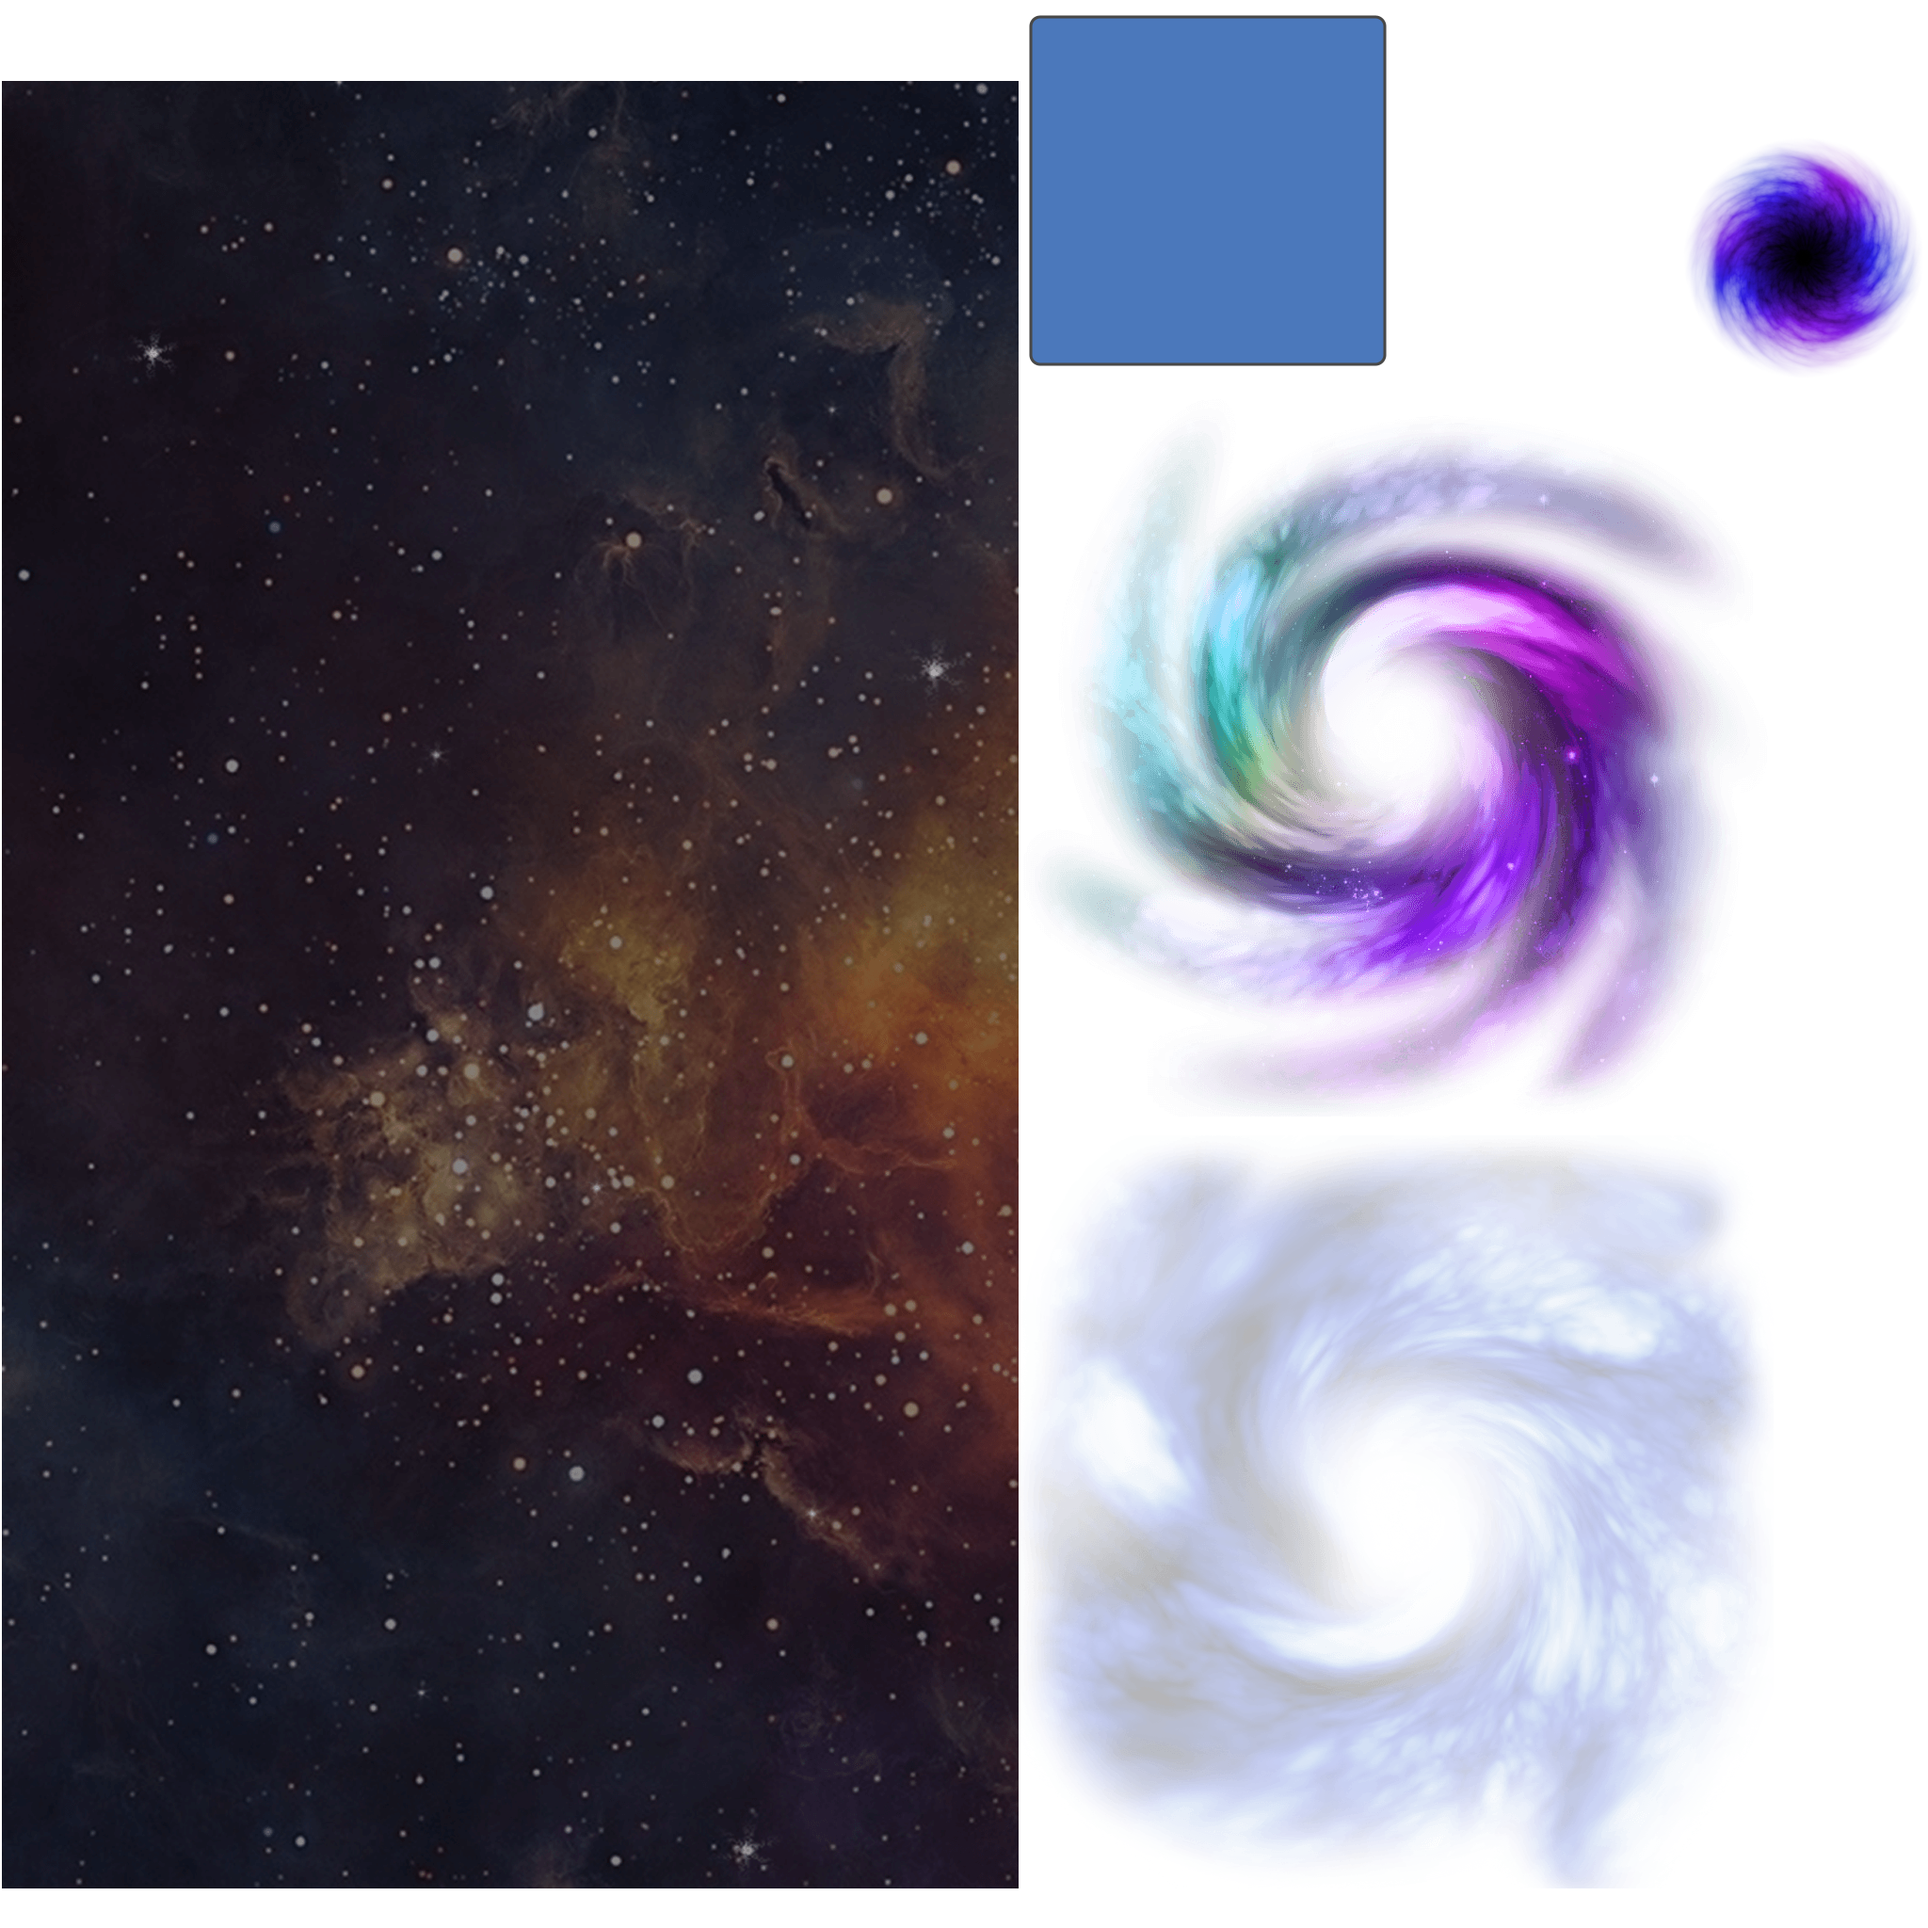
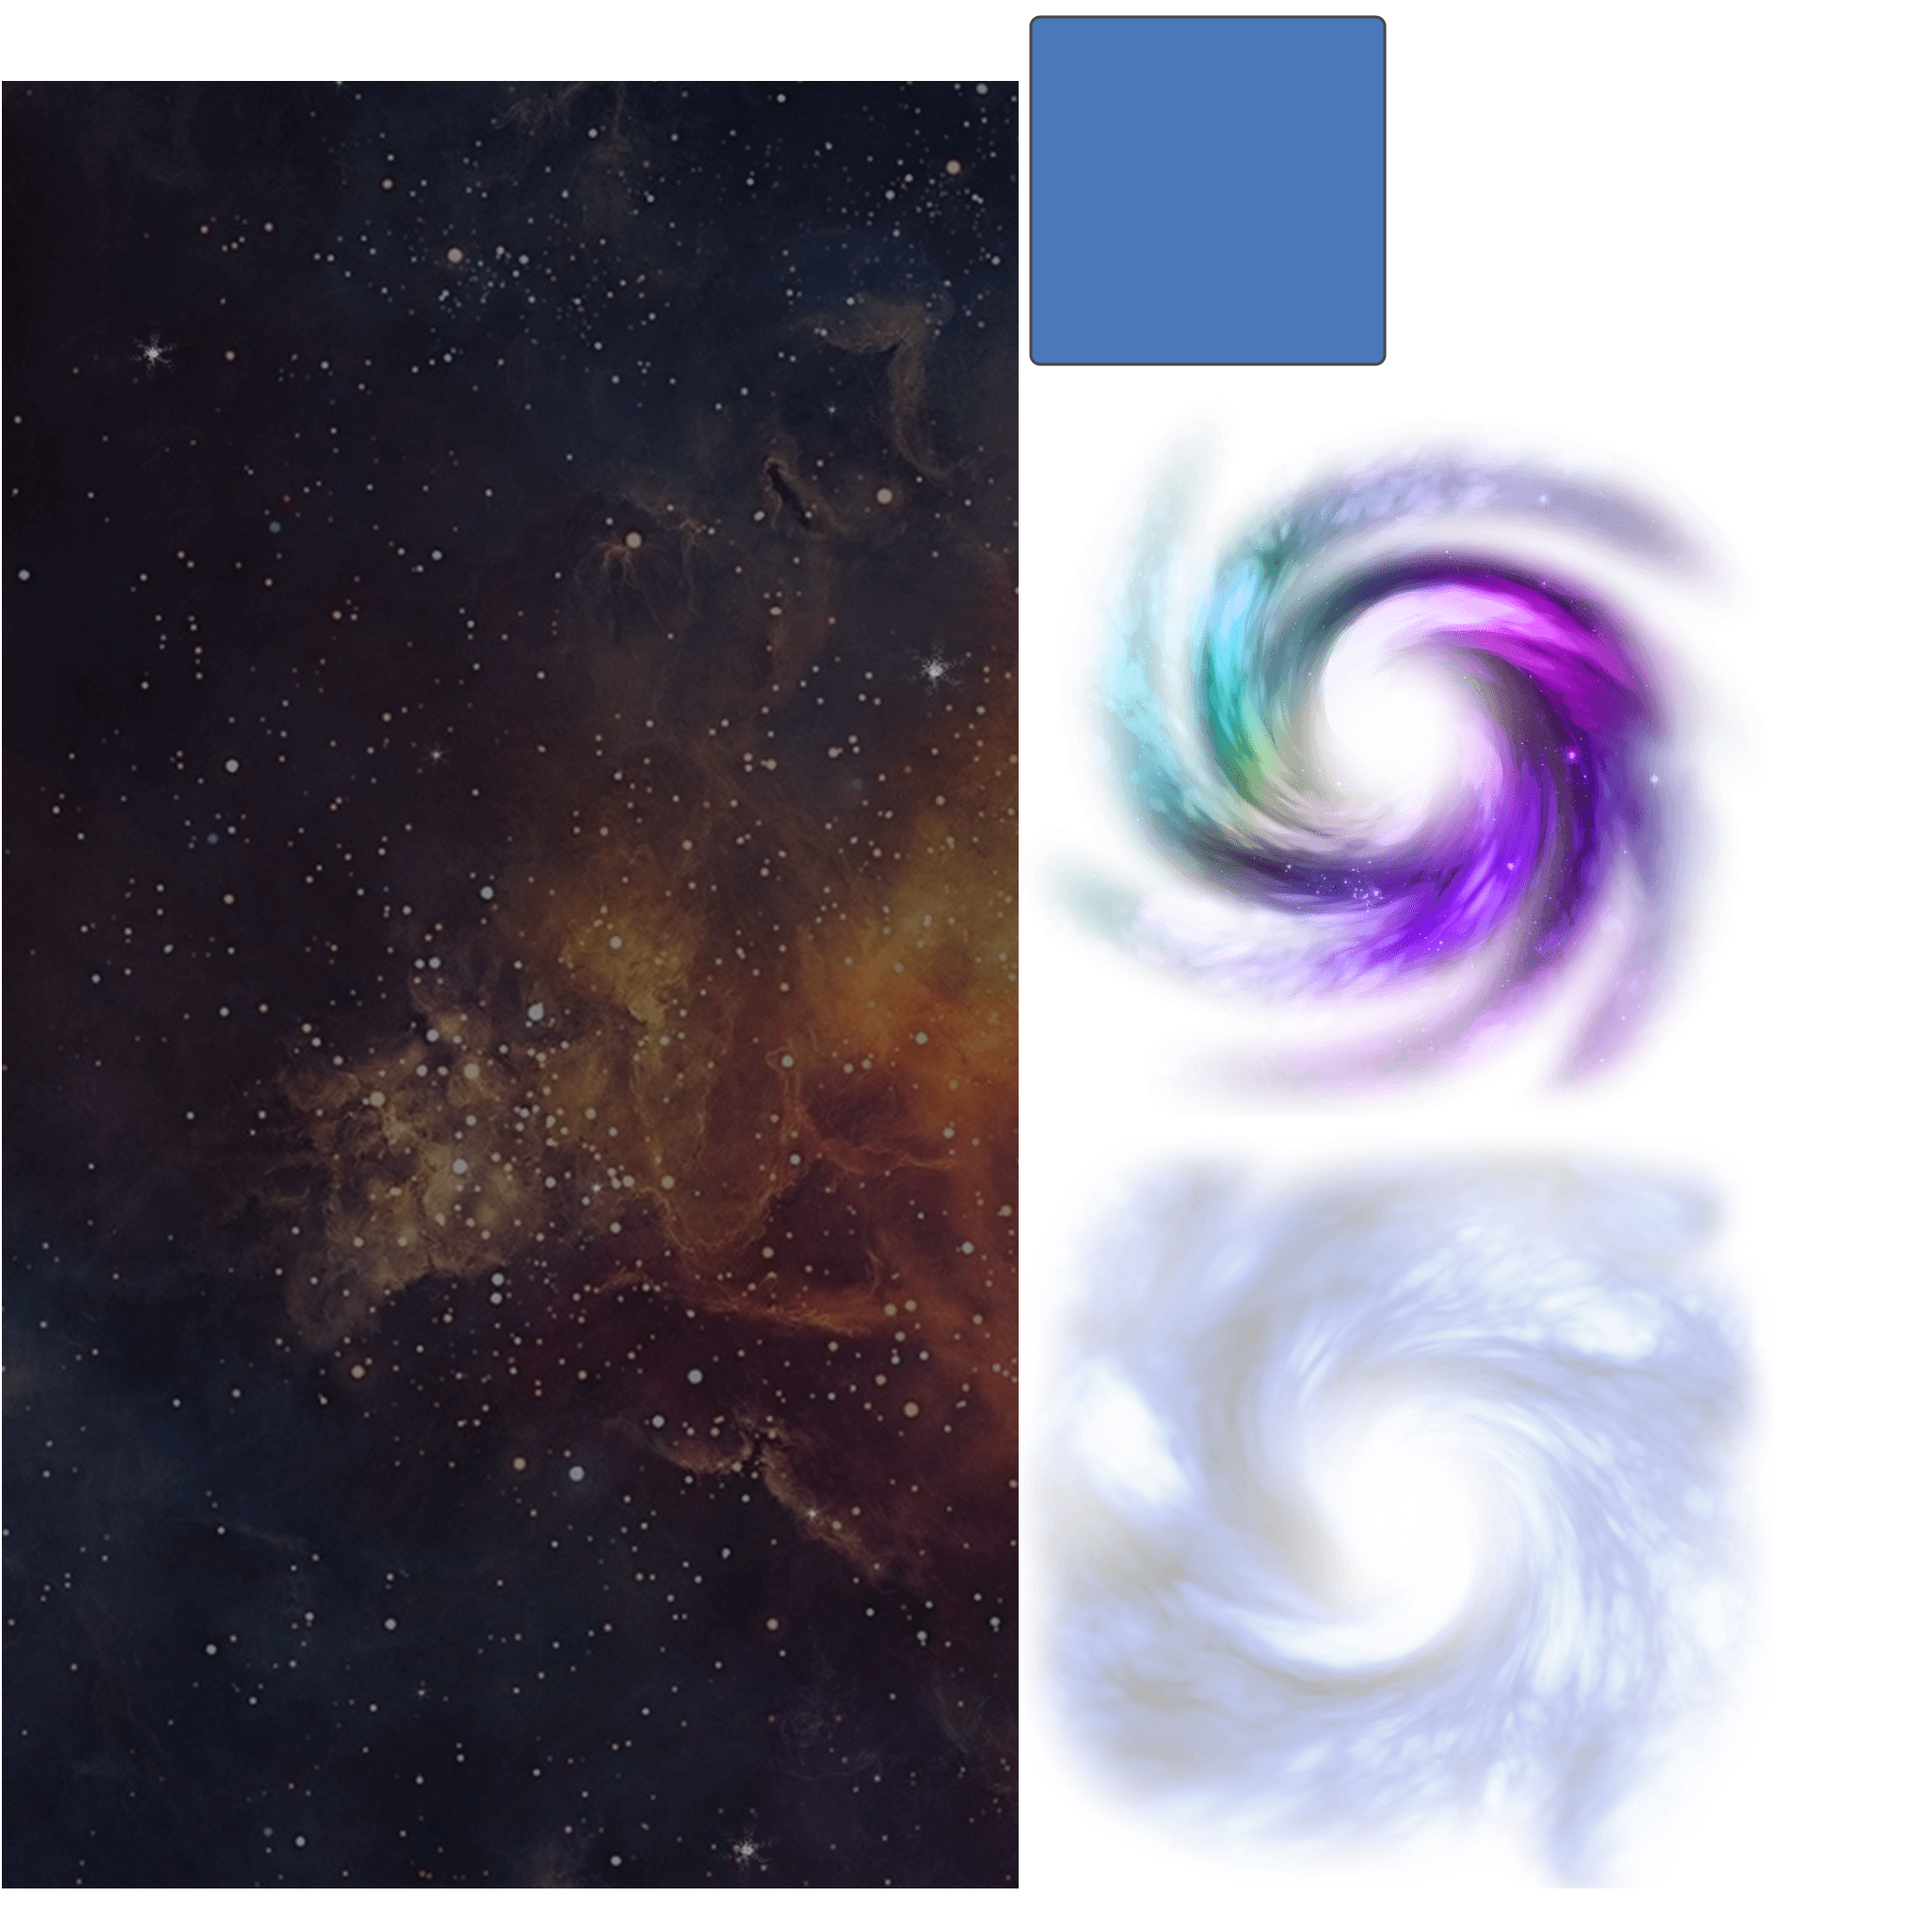
добавил кнопки "назад" для экрана выбора уровней и стейджа

Changed region(s): [[0.875, 0.0625, 1.0, 0.1875]]

diff --git a/core/src/com/NullPointer/swipeos/Scripts/mainMenu/PlayButtonScript.java b/core/src/com/NullPointer/swipeos/Scripts/mainMenu/PlayButtonScript.java
@@ -20,7 +20,7 @@ public class PlayButtonScript implements IScript{
     private Entity entity;
     private Rectangle buttonRectangle;
     private int stage;
-    private boolean isResizing;
+    private boolean isResizing, isRotating;
     TransformComponent transformComponent;
     DimensionsComponent dimensionsComponent;
     private float increment = 0.25f;
@@ -32,7 +32,7 @@ public class PlayButtonScript implements IScript{
 
 
     public PlayButtonScript(GameLoader gameLoader,  Entity entity, float moveTo,
-                            int stage, boolean resizing){
+                            int stage, boolean resizing, boolean isRotating){
         this.gameLoader = gameLoader;
         this.entity = entity;
         transformComponent = ComponentRetriever.get(entity, TransformComponent.class);
@@ -43,6 +43,7 @@ public class PlayButtonScript implements IScript{
         this.moveTo = moveTo;
         this.stage = stage;
         this.isResizing = resizing;
+        this.isRotating = isRotating;
 
         startWidth = dimensionsComponent.width;
         center.x = transformComponent.x + dimensionsComponent.width/2;
@@ -55,14 +56,16 @@ public class PlayButtonScript implements IScript{
 
     @Override
     public void act(float delta) {
-        transformComponent.rotation += 20 * delta;
+        if(isRotating) {
+            transformComponent.rotation += 20 * delta;
+        }
         if(isResizing){
             resize();
         }
         if(Gdx.input.justTouched()){
             Vector3 pos = new Vector3(Gdx.input.getX(), Gdx.input.getY(), 0);
             gameLoader.getCameraManager().getCamera().unproject(pos);
-            if(buttonRectangle.contains(pos.x,pos.y)){
+            if(buttonRectangle.contains(pos.x, pos.y)){
                 for(int i = 1; i < 11; i++){
                     Entity labelEntity = gameLoader.getGame().mainItemWrapper.getChild("label"+i).getEntity();
                     LabelComponent labelComponent = labelEntity.getComponent(LabelComponent.class);

diff --git a/core/src/com/NullPointer/swipeos/utils/LevelLoader.java b/core/src/com/NullPointer/swipeos/utils/LevelLoader.java
@@ -69,16 +69,23 @@ public class LevelLoader {
         dustTransformComponent.scaleX = 1.5f;
 
         itemWrapper.getChild("playButton").addScript(new PlayButtonScript(gameLoader, playButtonEntity,
-                992f, 0, false));
+                992f, 0, false, true));
         itemWrapper.getChild("bg").addScript(new BackGroundScript());
         itemWrapper.getChild("bg1").addScript(new BackGroundScript());
         itemWrapper.getChild("bg2").addScript(new BackGroundScript());
+
+        Entity backButtonLevelsEntity = itemWrapper.getChild("back_levels").getEntity();
+        itemWrapper.getChild("back_levels").addScript(new PlayButtonScript(gameLoader, backButtonLevelsEntity,
+                992f, 0, false, false));
+        Entity backButtonStages = itemWrapper.getChild("back_stages").getEntity();
+        itemWrapper.getChild("back_stages").addScript(new PlayButtonScript(gameLoader, backButtonStages,
+                180f, 0, false, false));
         Entity loadStage1Entity = itemWrapper.getChild("stage1Button").getEntity();
         itemWrapper.getChild("stage1Button").addScript(new PlayButtonScript(gameLoader, loadStage1Entity,
-                -494f, 1, true));
+                -494f, 1, true, false));
         Entity loadStage2Entity = itemWrapper.getChild("stage2Button").getEntity();
         itemWrapper.getChild("stage2Button").addScript(new PlayButtonScript(gameLoader, loadStage2Entity,
-                -494, 2, true));
+                -494, 2, true, false));
         for(int i = 1; i < 11; i++){
             Entity currentEntity = itemWrapper.getChild(i + "_").getEntity();
             ScriptComponent scriptComponent = new ScriptComponent();
